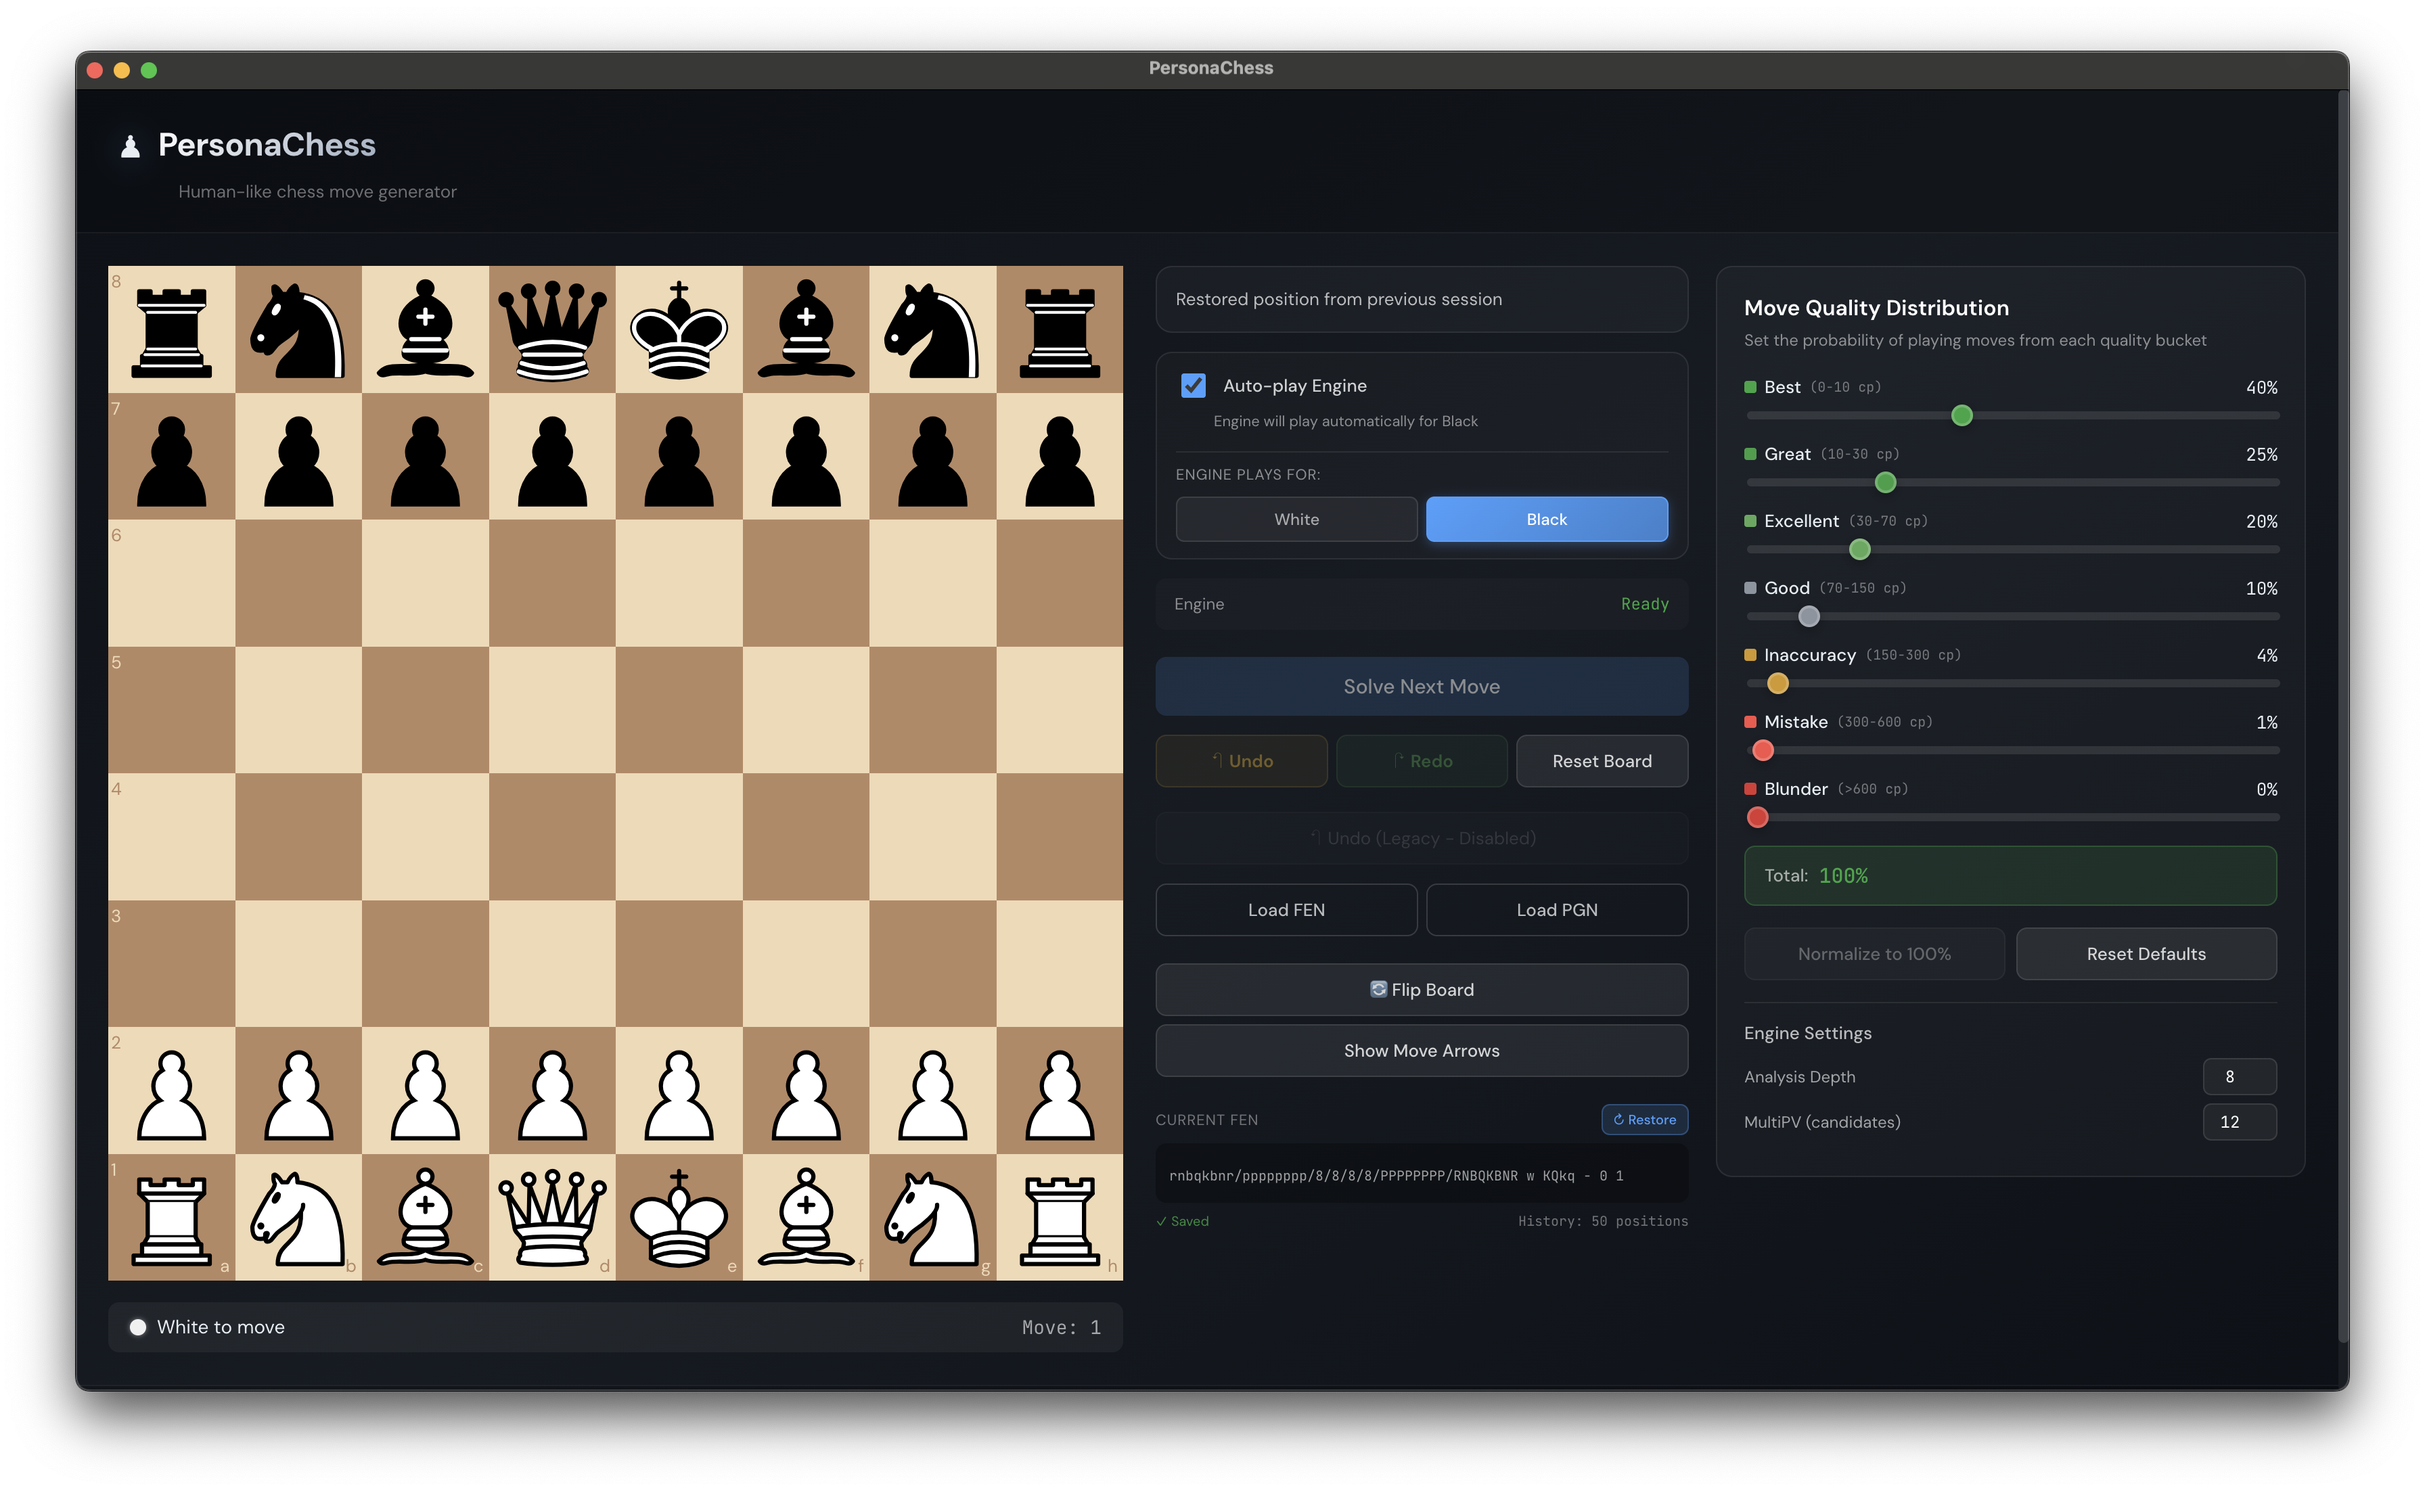
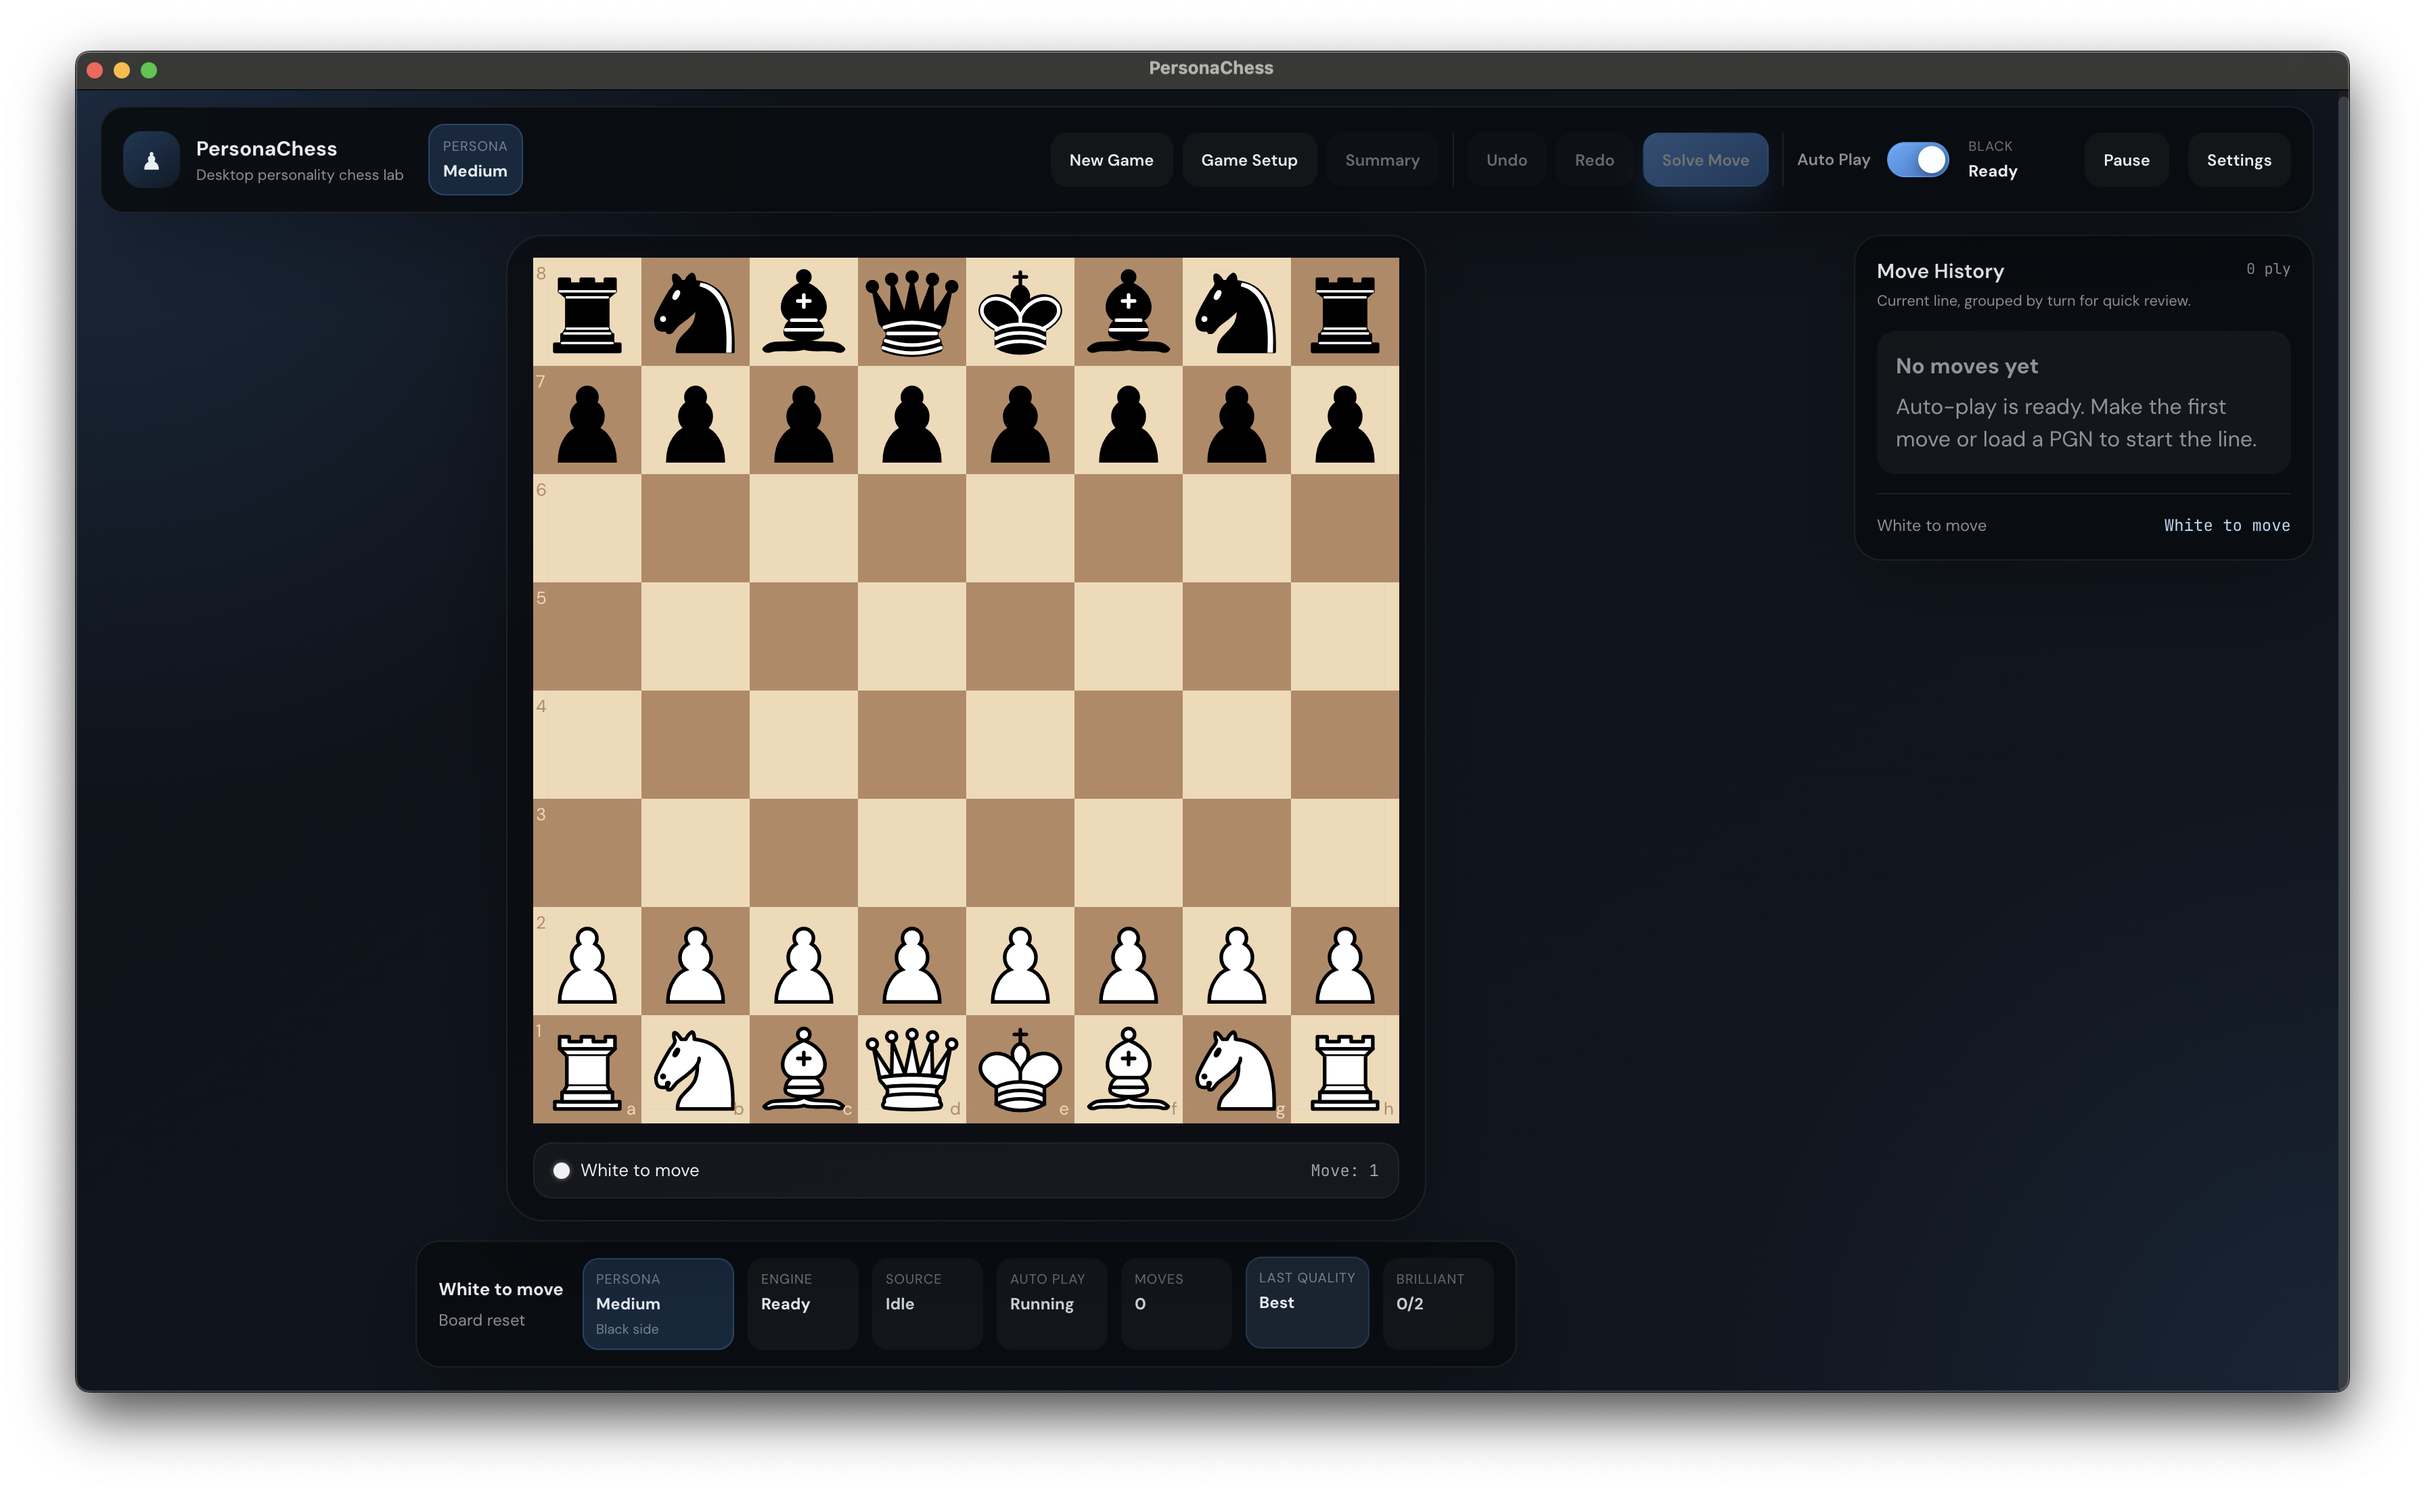
Update version to 2.0.0 and enhance README with detailed features and screenshots
- Bumped application version from 1.0.0 to 2.0.0 in package.json.
- Expanded README.md to provide a comprehensive overview of PersonaChess, including new features, gameplay mechanics, and user interface enhancements.
- Added a new screenshot to showcase the settings modal and updated the main window screenshot for better visual representation.
- Improved descriptions of core features, gameplay mechanics, and advanced options for clarity.

diff --git a/README.md b/README.md
@@ -1,85 +1,173 @@
 # PersonaChess
 
-PersonaChess is an Electron desktop chess app that uses Stockfish for analysis, then deliberately chooses moves through configurable human-like quality buckets instead of always playing the top engine line.
+PersonaChess is a desktop chess application built with Electron, React, TypeScript, and MobX. It uses Stockfish for analysis, but instead of always choosing the top move, it can deliberately play through configurable human-like quality buckets to create more varied and personality-driven games.
 
-![PersonaChess Screenshot](./screenshots/screenshot1.png)
+## Screenshots
 
-## What It Does
+### Main Board
 
-- Play on an interactive board with drag/drop or click-to-move
-- Ask the engine to play one move manually or let it auto-play for White or Black
-- Load positions from `FEN`, games/lines from `PGN`, or built-in openings
-- Tune how often the engine plays `Best`, `Great`, `Excellent`, `Good`, `Inaccuracy`, `Mistake`, and `Blunder` moves
-- Enable optional advanced behaviors with independent feature toggles
-- Persist local board state, engine configuration, and brilliant-move session data when enabled
+![PersonaChess Main Window](./screenshots/screenshot1.png)
 
-## Personas And Presets
+### Settings Modal
 
-Move quality presets shape the overall style of play:
+![PersonaChess Settings Modal](./screenshots/screenshot2.png)
 
-- `Low`: easier play, more inaccuracies and mistakes
-- `Medium`: balanced default
-- `Hard`: stronger play with mostly best/great moves
-- `Super Hard`: near-engine play
-- `Aggressive`: more risky and tactical distributions
+## Highlights
 
-These presets control bucket percentages only. Optional advanced toggles can further influence selection.
+- Interactive desktop chess board with drag-and-drop and click-to-move
+- Manual engine move solving or automatic engine play for White or Black
+- Personality presets that bias move quality distribution
+- Independent advanced feature toggles for cache, deterministic RNG, complexity, bias, brilliant-move budgeting, and more
+- Game Setup modal for openings, tactical positions, endgames, custom FEN, and custom PGN
+- Saved persona profiles with JSON import and export
+- Session summaries, recent game analytics, and PGN / JSON export
+- Local persistence for board state, engine configuration, UI preferences, and recent completed games
 
-## Advanced Feature Flags
+## How PersonaChess Works
 
-All advanced options are independent. You can mix old and new behavior safely.
+PersonaChess separates analysis from move choice:
+
+1. Stockfish analyzes the current position.
+2. Candidate moves are classified into quality buckets such as `Best`, `Great`, `Good`, `Inaccuracy`, `Mistake`, and `Blunder`.
+3. A bucket is selected from the active configuration.
+4. A legal move is chosen from that bucket and played.
+
+This lets the app feel much less robotic than a traditional "always best move" engine opponent.
+
+## Core Features
+
+### Play
+
+- Interactive board controls
+- Undo / redo
+- Reset board
+- Load FEN
+- Load PGN
+- Export current PGN through the summary flow
+
+### Personas
+
+- `Low`
+- `Medium`
+- `Hard`
+- `Super Hard`
+- `Aggressive`
+
+These presets shape the move-quality distribution. Optional advanced features can layer on additional behavior without replacing the base preset system.
+
+### Game Setup
+
+- Built-in openings
+- Tactical positions
+- Endgames
+- Custom FEN
+- Custom PGN
+
+### Advanced Systems
+
+- Deterministic RNG
+- Analysis cache
+- Improved move classification
+- Position complexity adjustments
+- Persona behavior bias
+- Human delay simulation
+- Brilliant move budget
+
+### Gameplay Polish
+
+- Desktop sound cues for move events
+- Move feedback toast
+- Autoplay countdown and pause / resume
+- Keyboard shortcuts
+- Recent game summaries and analytics
+
+## Feature Flags
+
+All advanced options are independent, so old and new behaviors can be mixed safely.
 
 - `securityDevToolsOnly`
-  Limits automatic DevTools opening to development builds only.
+  Restricts automatic DevTools opening to development builds.
 - `persistEngineConfig`
-  Persists depth, MultiPV, preset, bucket percentages, feature options, session board state, and brilliant tracking.
+  Persists engine settings, feature options, UI preferences, and session data.
 - `useDeterministicRng`
-  Uses seeded move selection for reproducible sessions.
+  Uses seeded random selection for reproducible sessions.
 - `useMoveAnalysisCache`
-  Reuses Stockfish analysis by `FEN + depth + MultiPV`.
+  Reuses analysis for the same `FEN + depth + MultiPV`.
 - `useImprovedMoveClassification`
-  Uses smarter fallback logic and keeps unknown moves out of `Good` by default.
+  Keeps unknown moves out of `Good` by default and uses smarter fallback logic.
 - `usePositionComplexity`
-  Adjusts move-quality weights slightly based on how sharp the position is.
+  Slightly adjusts bucket weights based on position sharpness.
 - `usePersonaBehaviorBias`
-  Adds lightweight aggressive/safe/tactical preferences on top of bucket choice.
+  Adds lightweight aggressive / safe move preferences on top of bucket selection.
 - `useHumanDelaySimulation`
-  Adds persona/complexity-based delay before engine auto-play moves.
+  Delays autoplay moves based on complexity, persona, and chosen move quality.
 - `useBrilliantMoveBudget`
-  Allows a per-game budget of tactical “brilliant” moves with phase restrictions.
+  Reserves a small tactical brilliant-move budget per game.
 
-## Brilliant Move Budget
+## Saved Profiles
 
-When enabled, PersonaChess can reserve a fixed number of brilliant moves per game.
+PersonaChess supports saved persona profiles that can include:
 
-- `brilliantMovesPerGame`: `0` to `4`
-- `brilliantAllowedPhase`: `opening`, `middlegame`, `endgame`, or `any`
-- Tactical preference is based on checks, captures, promotions, and similar sharp traits
-- Budget is consumed only after a brilliant move is actually played
-- Undo/redo and restored sessions keep brilliant tracking consistent
+- Bucket percentages
+- Active preset
+- Depth and MultiPV
+- Feature options
+- Brilliant-move settings
+- Theme and basic UI mode
+
+Profiles can be:
+
+- Saved
+- Loaded
+- Renamed
+- Duplicated
+- Deleted
+- Exported as JSON
+- Imported from validated JSON
+
+## Game Analytics
+
+Each completed game can generate a summary including:
+
+- Move quality counts
+- Brilliant moves
+- Inaccuracies, mistakes, and blunders
+- Average eval loss
+- Average move delay
+- Complexity distribution
+- Setup used
+- Persona used
+- Autoplay duration
+- Recent games history
+
+The Game Summary modal also supports:
+
+- JSON export
+- PGN export
+- Recent game browsing
 
 ## Architecture
 
-PersonaChess follows MVVM:
+PersonaChess follows an MVVM structure:
 
 - `src/engine`
-  Pure TypeScript logic for Stockfish integration, move classification, picking, caching, RNG, complexity, persona bias, brilliant selection, and supporting helpers
+  Pure TypeScript engine and model helpers
 - `src/viewmodels`
-  MobX stores coordinating board state, engine state, configuration, feature options, and debug state
+  MobX stores coordinating game state, engine state, UI state, setup flow, profiles, and analytics
 - `src/renderer`
-  React components that render the UI and call ViewModel actions
+  React components and desktop UI presentation
 - `src/main.ts`
-  Electron main process with production hardening and Forge/Vite bootstrapping
+  Electron main process and production hardening
 - `src/preload.ts`
-  Minimal context-bridge surface for syncing feature options to the main process
+  Minimal preload bridge
 
 ## Requirements
 
 - Node.js 18 or newer recommended
 - npm
-- macOS, Windows, or Linux for local Electron builds
+- macOS, Windows, or Linux for local Electron development and packaging
 
-## Setup
+## Installation
 
 ```bash
 npm install
@@ -87,28 +175,24 @@ npm install
 
 The `postinstall` step copies `stockfish.js` and `stockfish.wasm` into `public/`.
 
-## Run In Development
+## Development
+
+Run the desktop app locally:
 
 ```bash
 npm start
 ```
 
-Notes:
-
-- The app runs with Electron Forge + Vite
-- DevTools can be opened in development when the security option allows it
-- A debug logging toggle is available in the app during development
-
-## Tests And Lint
+## Quality Checks
 
 ```bash
 npm test
 npm run lint
 ```
 
-## Production Packaging
+## Packaging
 
-Package the app locally:
+Create a packaged local build:
 
 ```bash
 npm run package
@@ -120,62 +204,25 @@ Create a platform distributable:
 npm run make
 ```
 
-Current packaging metadata:
+## Electron Security Notes
 
-- App name: `PersonaChess`
-- Bundle identifier: `com.imokhles.personachess`
-- macOS category: `Games`
+The app is configured with a hardened renderer posture:
+
+- `contextIsolation: true`
+- `sandbox: true`
+- `nodeIntegration: false`
+- minimal preload bridge
+- blocked navigation and popup creation
+- denied permission prompts
+
+DevTools are intended for development only, controlled by the relevant feature option.
+
+## Current Build Metadata
+
+- Product name: `PersonaChess`
+- Package name: `personachess`
 - App icon: `assets/icon.icns`
-
-## Release Notes
-
-This release-readiness pass includes:
-
-- DevTools restricted to development builds only
-- Hardened Electron window settings with `contextIsolation`, `sandbox`, `nodeIntegration: false`, blocked navigation, and denied permission prompts
-- Minimal preload bridge
-- Reduced runtime logging noise behind a debug toggle
-- Cache/source visibility and clearer analysis state in the UI
-- Persisted move annotations for stable brilliant undo/redo after restart
-
-## Troubleshooting
-
-### The app opens but the engine never starts
-
-- Re-run `npm install` so `postinstall` recopies `stockfish.js` and `stockfish.wasm`
-- Confirm both files exist in `public/`
-- Check the in-app engine error message in the control panel
-
-### Stockfish or WASM fails after packaging
-
-- Verify `public/stockfish.js` and `public/stockfish.wasm` are included in the packaged app resources
-- Rebuild with `npm run package`
-- If you changed asset paths, make sure the worker still loads `/stockfish.js`
-
-### Packaging fails on your platform
-
-- `npm run package` is the easiest smoke check for a local release
-- `npm run make` depends on the maker available for your platform
-- On macOS, the default distributable is a `.zip`
-- Linux makers may require additional native packaging tools when run on Linux
-
-### The engine feels noisy in the terminal
-
-- Use the in-app `Debug logs` toggle in development to turn verbose logs on or off
-- In packaged builds, debug logs stay off by default
-
-### Persisted state feels stale
-
-- Disable and re-enable `Persist Engine Configuration` to clear persisted advanced settings
-- Reset the board or load a new `FEN`/`PGN` to start a fresh game session
-
-## Scripts
-
-- `npm start`: run the Electron app in development
-- `npm run package`: build a local packaged app
-- `npm run make`: create a platform distributable
-- `npm test`: run the local regression tests
-- `npm run lint`: run ESLint
+- Engine package: `stockfish.js`
 
 ## Project Structure
 
@@ -191,7 +238,46 @@ public/
   stockfish.wasm
 assets/
   icon.svg
+  icon.png
   icon.icns
+screenshots/
+  screenshot1.png
+  screenshot2.png
 tests/
 ```
 
+## Scripts
+
+- `npm start` - run the Electron app in development
+- `npm run package` - build a packaged local app
+- `npm run make` - create a platform distributable
+- `npm test` - run regression tests
+- `npm run lint` - run ESLint
+
+## Troubleshooting
+
+### Engine does not start
+
+- Re-run `npm install`
+- Confirm `public/stockfish.js` and `public/stockfish.wasm` exist
+- Check the in-app engine status and any visible error message
+
+### Packaged build cannot load Stockfish
+
+- Verify both engine files are present in packaged resources
+- Rebuild with `npm run package`
+- If asset paths were changed, confirm the worker still resolves `/stockfish.js`
+
+### Persisted state feels stale
+
+- Disable and re-enable persisted engine configuration
+- Reset the board or load a new setup to start a fresh session
+
+### Packaging fails on your machine
+
+- `npm run package` is the fastest local smoke test
+- `npm run make` may require platform-specific native tooling depending on the target
+
+## License
+
+MIT
